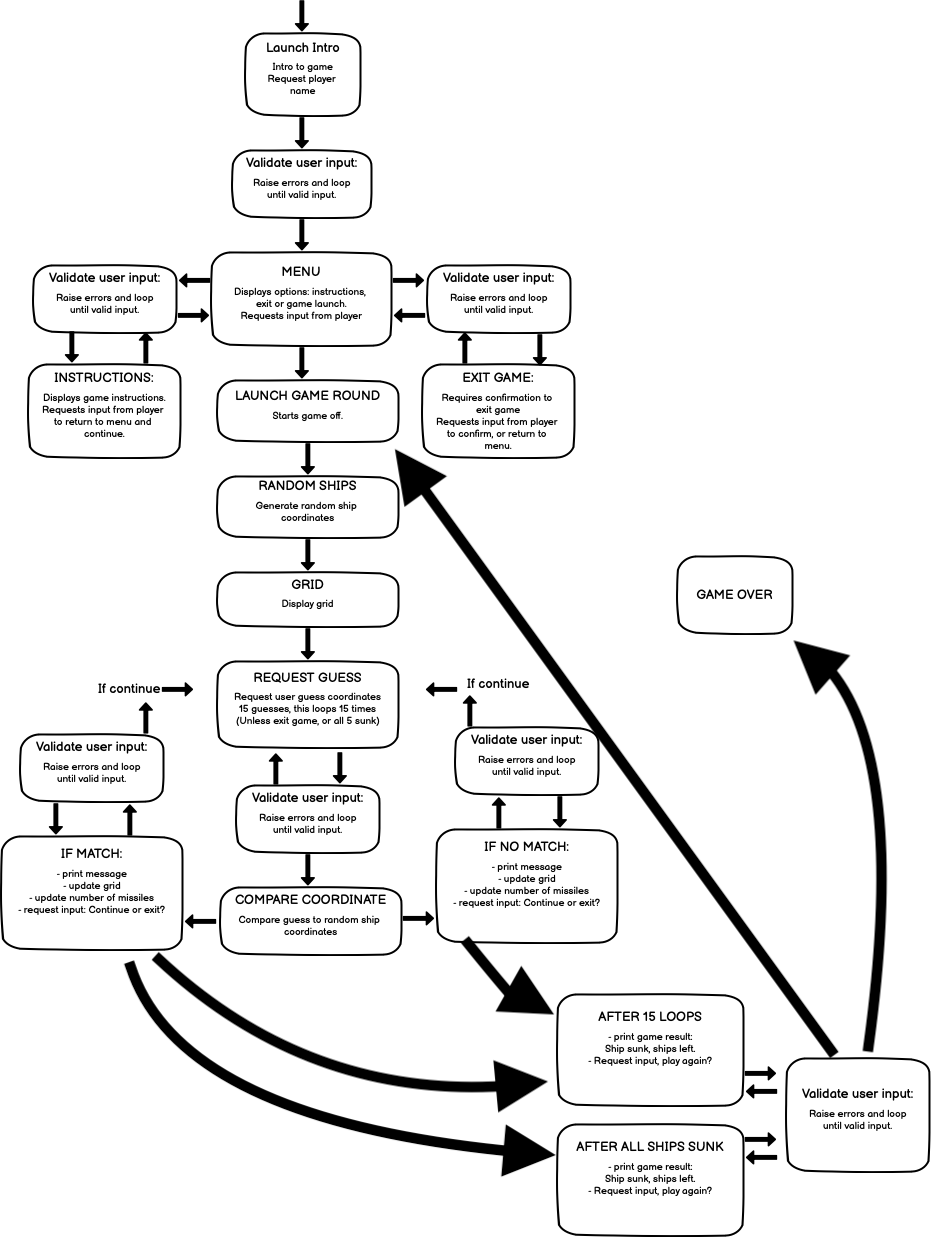
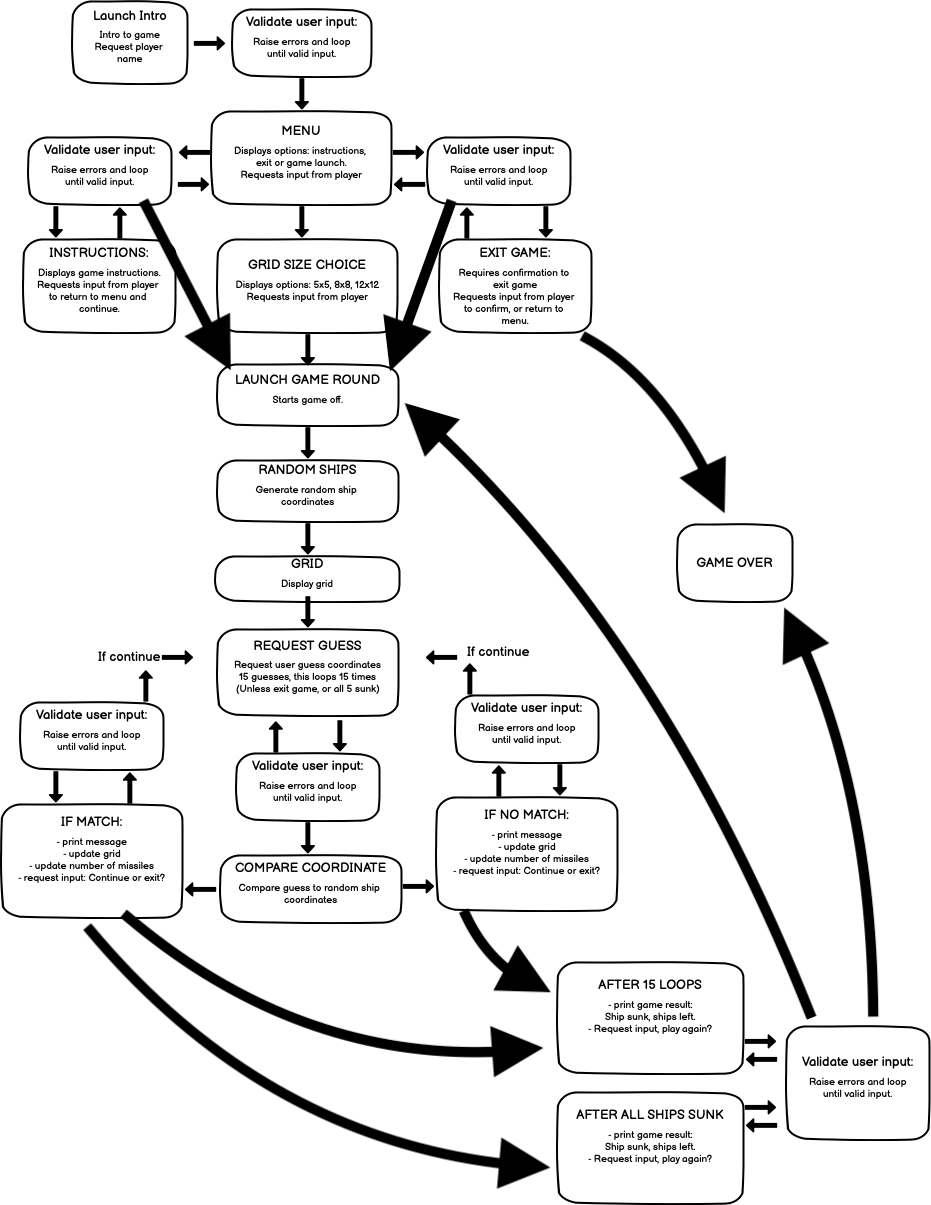
Update readme to explain new grid selection

diff --git a/run.py b/run.py
@@ -27,7 +27,7 @@ def launch_intro():
     """
     while True:
         print(colored('****************************************************************************************** \n', 'green'))
-        print(colored("B A T T L E S H I P   B L A S T \n", 'green'))
+        print(colored("B A T T L E S H I P S\n", 'green'))
         global player_name
         player_name = input(colored("Enter player name: \n", 'green')).title()
 
@@ -41,7 +41,7 @@ def game_menu():
     """
     while True:
         print(colored('****************************************************************************************** \n', 'green'))
-        print(colored("G A M E    M E N U \n", 'green'))
+        print(colored("G A M E   M E N U \n", 'green'))
         print(colored("War is imminent....", 'green'))
         print(colored(f'{player_name}, prepare for battle! \n', 'green'))
         print(colored("Instructions--> 1", 'green'))
@@ -54,7 +54,6 @@ def game_menu():
         game_instructions()
     elif menu_selection == "2":
         grid_choice()
-        #launch_game()
     elif menu_selection == "3":
         exit_game()
 
@@ -64,18 +63,22 @@ def game_instructions():
     """
     while True:
         print(colored('******************************************************************************** \n', 'green'))
-        print(colored("G A M E  I N S T R U C T I O N S \n", 'green'))
-        print(colored("• Battlefield display: 5 x 5.", 'green'))
+        print(colored("I N S T R U C T I O N S \n", 'green'))
+        print(colored("• Battlefield grid choices:", 'green'))
+        print(colored("   Easy - 5 x 5", 'green'))
+        print(colored("   Hard - 8 x 8", 'green'))
+        print(colored("   Brutal - 12 x 12", 'green'))
+
         print(colored("• There here are 5 hidden battleships.\n", 'green'))
-        print(colored("• Rows : A, B, C, D, E", 'green'))
-        print(colored("• Columns: 1, 2, 3, 4, 5", 'green'))
+        print(colored("• Rows : A, B, C, D, E, ...", 'green'))
+        print(colored("• Columns: A, B, C, D, E, ...", 'green'))
         print(colored("• Each ship takes up one coordinate", 'green'))
-        print(colored("• For example: (A, 1)\n", 'green'))
+        print(colored("• For example: (A, C)\n", 'green'))
         print(colored("• Enter coordinates to launch missil. \n", 'green'))
         print(colored("• You have a total of 15 missils.", 'green'))
         print(colored("• Sink ALL ships to win the game. \n", 'green'))
-        print(colored("• Top left: (A, 1)", 'green'))
-        print(colored("• Bottom right: (E, 4)\n", 'green'))
+        print(colored("• Top left: (A, A)", 'green'))
+        print(colored("• Bottom right: (E, E), (H, H) or (L, L)\n", 'green'))
         print(colored("Go back to menu--> M", 'green'))
         menu_selection = input('\n').upper()
         if validate_key_alpha(menu_selection, keys_m):
@@ -89,7 +92,7 @@ def grid_choice():
     Function to select grid size.
     """
     print(colored('******************************************************************************** \n', 'green'))
-    print(colored("G R I D  S I Z E", 'green'))
+    print(colored("G R I D  S E L E C T I O N", 'green'))
     print("\n")
     print(colored("Please select grid size", 'green'))
     print(colored("5 x 5 --> 5", 'green'))
@@ -102,17 +105,18 @@ def grid_choice():
             grid_size = int(grid_size)
             break
 
-    global keys_player_guess_row
-    global keys_player_guess_column
-
-    keys_player_guess_column = []
-    for i in range(1,grid_size + 1):
-        keys_player_guess_column.append(str(i))
-
-    keys_player_guess_row = []
+    global keys_guess_row
+    global keys_guess_col
+    
+    keys_guess_row = []
     for i in range(65, 65 + grid_size):
-        keys_player_guess_row.append(chr(i))
- 
+        keys_guess_row.append(chr(i))
+
+
+    keys_guess_col = []
+    for i in range(65, 65 + grid_size):
+        keys_guess_col.append(chr(i))
+
     global board
     board = []
     for x in range(grid_size):
@@ -170,7 +174,7 @@ def launch_game():
         if ships_sunk == 5:
             break
         print(colored('******************************************************************************** \n', 'green'))
-        print(colored("T H E    B A T T L E F I E L D \n", 'green'))
+        print(colored("T H E   B A T T L E F I E L D \n", 'green'))
         print("\n")
         grid(board)
         print("\n")
@@ -178,18 +182,17 @@ def launch_game():
         print(colored(f'You have {misiles_left} misiles left!\n', 'green'))
         while True:
             row_choice_letter = input(colored("Enter row: \n", 'green')).upper()
-            if validate_key_alpha(row_choice_letter, keys_player_guess_row):
+            if validate_key_alpha(row_choice_letter, keys_guess_row):
                 break
         while True:
-            column_choice_number = input(colored("Enter column: \n", 'green'))
-            if validate_key_numerical(column_choice_number, keys_player_guess_column):
-                column_choice_number = int(column_choice_number)
+            column_choice_letter = input(colored("Enter column: \n", 'green')).upper()
+            if validate_key_alpha(column_choice_letter, keys_guess_col):
                 break
         row_choice = letters_to_numbers[row_choice_letter]
-        column_choice = column_choice_number - 1
+        column_choice = letters_to_numbers[column_choice_letter]
         global player_guess
         player_guess = row_choice, column_choice
-        print(colored(f'You guessed ({row_choice_letter}, {column_choice_number}) \n', 'green'))
+        print(colored(f'You guessed ({row_choice_letter}, {column_choice_letter}) \n', 'green'))
         compare_coordinates(board)
         misiles += 1
         print("\n")     
@@ -296,6 +299,7 @@ def game_over():
     """
     print(colored('******************************************************************************** \n', 'green'))
     print(colored("G A M E    O V E R", 'green'))
+    print("\n")
     print(colored("To play again, click on RUN PROGRAM", 'green'))
 
 # VALIDATING FUNCTIONS--------------------------

diff --git a/README.md b/README.md
@@ -77,8 +77,8 @@ STRUCTURE:
 
 #### _Header - Game Title_
 
-*   The Game title is displayed as soon as the game is launched. Minimalist uppercase green font.
-*   Playe name is requested, which will be used thoughout the game.
+*   The Game title is displayed as soon as the game is launched. Minimalist uppercase green font: B A T T L E F I E L D S
+*   Player name is requested, which will be used thoughout the game.
 
 <img src="assets/images/header.png" width="500px">
 
@@ -89,7 +89,7 @@ STRUCTURE:
 
 * * *
 
-The initial menu section is simple, to the point and consists of 3 navigation options:
+The initial M E N U section is simple, to the point and consists of 3 navigation options:
 
 * 1 : Game Instructions
 * 2 : Launch Game
@@ -106,16 +106,17 @@ The initial menu section is simple, to the point and consists of 3 navigation op
 
 When typing 1 into the terminal, the user is directed to this page consisting of game instructions.
 
-* Ths contains a header labelled GAME INSTRUCTIONS. All section headers are displayed in a similar style (uppercase, gaps in between letters)
+* Ths contains a header labelled I N S T R U C T I O N S. All section headers are displayed in a similar style (uppercase, gaps in between letters)
 * The instructions which are:
     * Clear and consise
     * Arranged in bullet points
     * Separated into relevant sections.
-*The user must type M to return to the MENU.
+*The user must type M to return to the M E N U.
 
 <img src="assets/images/mobile-round1-display.png" width="200px">
 
-* * *
+* * * 
+
 
 ### Exit Game
 
@@ -138,11 +139,27 @@ From MENU, when typing 3 into the terminal, the user is directed to the EXIT GAM
 
 * * *
 
-From EXIT GAME, when typing Y into the terminal, the user is directed to the GAME OVER SECTION
+From Q U I T  G A M E, when typing Y into the terminal, the user is directed to the G A M E  O V E R section
 
-This section simply displays the words GAME OVER.
+This section simply displays the words G A M E  O V E R.
 
 <img src="assets/images/mobile-gameover-display.png" width="200px">
+
+
+### Grid Choice 
+
+* * *
+
+From MENU, when typing 2 into the terminal, player is navigated to Grid choice section
+
+* 5 x 5 --> 5
+* 8 x 8 --> 8
+* 12 x 12 --> 12
+* Enter user selection.
+
+
+<img src="assets/images/mobile-launch-display.png" width="200px">
+
 
 * * *
 
@@ -150,13 +167,13 @@ This section simply displays the words GAME OVER.
 
 * * *
 
-From MENU, when typing 3 into the terminal, the user is finally directed to the GAME section.
+From grid selection, the user is finally directed to the GAME section.
 This displays:
-* Header labelled THE BATTLEFIELD
+* Header labelled T H E  B A T T L E F I E L D
 * The board grid:
-    * 5 x 5
-    * Rows: A B C D E
-    * Columns: 1 2 3 4 5
+    * 5 x 5, 8 x 8 or 12 x 12
+    * Rows: A B C D E ...
+    * Columns: A B C D E ...
     * Each cooridnate is represented by a .
 * Enter ROW input
 * Enter COLUMN input
@@ -167,12 +184,12 @@ Once the user inputs both coordinates, the following options:
     * You sunk a ship!
     * You missed!
     * You've already hit this target, Try again!!
-* Selection    
-    * Launch next misile - L
-    * Quit Game - Q (And a reminder, that if quiting, all advances will be lost)
+* Selection: Launch next misile?    
+    * Y - yes --> next round
+    * N - No (And a reminder, that if quiting, all advances will be lost)
 
 
-If selecting Q, the user is directed to EXIT GAME section.
+If selecting N, the user is directed to EXIT GAME section.
 
 * * *
 
@@ -286,7 +303,7 @@ FEATURES:
  <img src="assets/images/tablet-playround-display.png" width="500px"> 
 
 * QUIT GAME - when entering 3 from MENU
-    * Header: Q U I T   G A M E 
+    * Header: Q U I T  G A M E 
     * Message confirming if user wnats to exit game. Language is challenging the user.
     * Question player. Quit game?
         * If Y - GAME OVER
@@ -299,11 +316,22 @@ FEATURES:
 
 <img src="assets/images/tablet-gameover-display.png" width="500px"> 
 
-* LAUNCH GAME ROUND - when entering 2 from MENU
+* GRID SELECTION - when entering 2 from MENU
+    * Message displaying G R I D  S I Z E
+    * Options to select from:
+        * 5 x 5 (easy)
+        * 8 x 8 (medium)
+        * 12 x 12 (hard)
+    * Input request (validated before submitting)
+
+<img src="assets/images/tablet-gameover-display.png" width="500px"> 
+
+
+* LAUNCH GAME ROUND - after selecting grid size
     * Header: B A T T L E F I E L D
     * Battlefield Grid:
-        * Rows: A B C D E
-        * Columns: 1 2 3 4 5
+        * Rows: A B C D E ...
+        * Columns: A B C D E ...
     * Input request: Enter row (validated before submitting)
     * Input request: Enter column (validated before submitting)
 
@@ -311,9 +339,9 @@ FEATURES:
 
 * AFTER SUBMITTING COORDINATES - results added!
     * Message confirming hit, miss, or repeated coordinate.
-    * Options to:
-        * Launch next misile - L
-        * Quit game - Q
+    * Options, launch next misile?
+        * Y - yes (validated before submitting)
+        * N - no (validated before submitting)
     * Request player input (validated before submitting)
 
 <img src="assets/images/tablet-gameover-display.png" width="500px"> 
@@ -342,8 +370,8 @@ FEATURES:
 
 ### Future features
 
-* Include a player grid with the player randomly selected ships.
-* Allow player to select where to place their ships
+* Have 2 grids: one for the player to have their ships.
+* Allow player to select where to place their ships,
 * Longer ships ocupying more coordinates.
 
 * * * 
